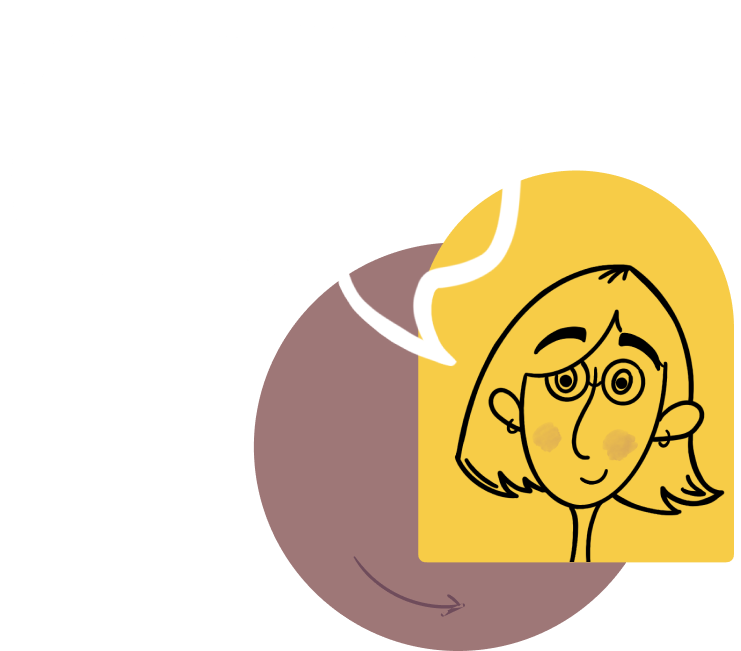
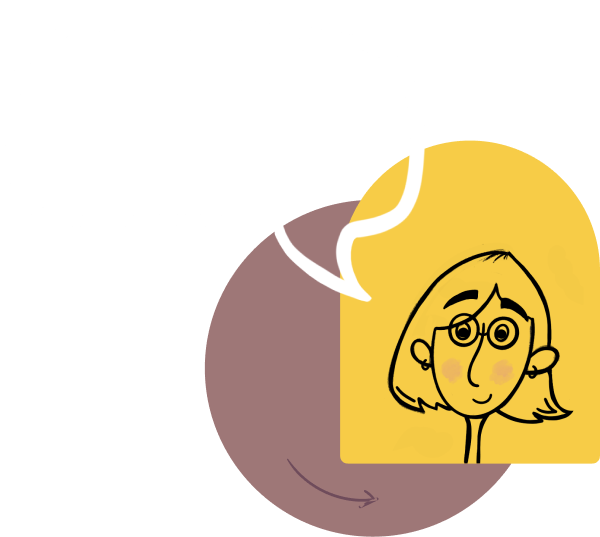
added portfolio items

diff --git a/src/components/Resume/Resume.js b/src/components/Resume/Resume.js
@@ -1,0 +1,44 @@
+import React from 'react';
+import { Item } from '../ Item/Item';
+
+const Resume = () => {
+  return (
+    <div>
+      <Item experience="Courier Health"
+            date="Oct 2020 - May 2021"
+            contents={[
+              "Devliered Courier Health’s MVP Patient Therapy Engagemnt System written in React, TypeScript and AWS Amplify.",
+              "Implemented pixel-perfect user interfaces from bare bone wireframes for Courier Health’s core features including the Case Manager dashboard, patients’ profile page, and the resource library manager.",
+              "Strategically involved in the design and implementation process of the product by consulting on best UX practices during initial design phases."
+            ]}
+            />
+      <Item experience="Sunshine Permaculture"
+            date="Sept 2020 - Dec 2021"
+            contents={[
+              "Assisted in establishing an organic farm in Chiang Mai, Thailand, with the aim of creating a resilient and sustainable food system for local communities."
+            ]}
+            />
+      <Item experience="ActionIQ"
+            date="Oct 2018 - Mar 2020"
+            contents={[
+              "Led a data visualization project to create complex React components that hooked into live data streams from ideation to implementation and delivery.", 
+              "Regularly assumed the role of Agile Scrum Master and worked closely with the Product and UX team to identify, prioritize, and groom upcoming features and JIRA tickets.", 
+              "Implemented third party API integrations and authentication libraries in Scala for clients to target advertising campaigns to large groups of users via channels such as Twitter and Snapchat.", 
+              "Improved runtime of Luigi tasks by improving Redshift queries, which resulted in decreasing the execution time of the process from approximately two hours to fifteen minutes.", 
+              "Enhanced the complex ActionIQ interface by adding the ability for users to easily edit previously constructed marketing campaigns.", 
+              "Collaborated across multiple teams to create a new Full Stack feature which provided clients insights into the enormous amounts of data being processed in the ActionIQ platform on a daily basis. "
+            ]}
+            />
+      <Item experience="Blackrock"
+            date="Aug 2017 - Oct 2018"
+            contents={[
+              "Developed a next generation portfolio modeling and risk analytics tool written in AngularJS that allowed users to have a more holistic insight into their portfolio holdings.",
+              "Implemented a project which enabled super-users to create global analytic templates that become accessible in all client environments which greatly enhanced the client’s overall experience on the platform.", 
+              "Enhanced BlackRock’s Query Language, in ANTLR and Java which reduced the redundancy in the database and increased ease of compliance rule integration and creation in the platform."
+              ]} 
+            />
+    </div>
+  );
+}
+
+export { Resume };

diff --git a/src/components/ Item/Item.js b/src/components/ Item/Item.js
@@ -1,0 +1,61 @@
+import React, { useState } from 'react';
+import './Item.css';
+
+const DISPLAY_LIM = 3;
+
+const Contents = ({ items }) => {
+  const [toggle, setToggle] = useState(false);
+
+  return (
+    <div>
+      { !toggle
+          ? items.map((content, idx) => {
+            if (idx > DISPLAY_LIM - 1) return;
+            return (
+              <div key={idx} style={{ marginBottom : "10px" }}>
+                {content}
+              </div>
+            )})
+          : items.map((content, idx) => 
+              <div key={idx} style={{ marginBottom : "10px" }}>
+                {content}
+              </div>
+            )
+      }
+      {
+        items.length <= DISPLAY_LIM
+          ? <></>
+          : (!toggle) 
+            ? <div onClick={() => setToggle(!toggle)} className="see_more">See More</div>
+            : <div onClick={() => setToggle(!toggle)} className="see_more">See Less</div>
+      }
+      
+    </div>
+  )
+}
+
+const Item = ({ experience, date, contents }) => {
+  return (
+    <div className='item_container'>
+      <div className='outer_circle'></div>
+      <div>
+        <div className='experience'>
+          { experience } 
+        </div>
+        <div className='date'>
+          { date } 
+        </div>
+      </div>
+      <div className='content'> 
+          {/* { contents.map((content, idx) => 
+              <div key={idx} style={{ marginBottom : "10px" }}>
+                {content}
+              </div> 
+          )}  */}
+          <Contents items={contents}/>
+      </div>
+    </div>
+  );
+}
+
+export { Item };

diff --git a/src/App.js b/src/App.js
@@ -8,11 +8,12 @@ import { Header, Title, Normal } from './components/Text';
 import { TypeWriter } from './components/Typewriter/Typewriter';
 import { Spacer } from './components/Spacer/Spacer';
 import { Button } from './components/Button/Button';
+import { Resume } from './components/Resume/Resume';
 
 function App() {
   return (
     <div className='App'>
-      <div className='container_1'>
+      <div className='section_1'>
         <div className='intro'>
           <TypeWriter text="Hi there, I'm Adisa"/>
           <img src={img} alt='intro_img' className='intro_img'/>
@@ -22,8 +23,7 @@ function App() {
           <Title text="Full-Stack Engineer"/>
           <div className="paragraph">
             <Normal text="Thanks for stopping by. Here's some quick info about me:  I'm a Full-Stack Engineer with experiences working in React + Redux, Typescript, and Javascript, among other technologies. 
-                          Some of my favorite things in life include my Boston Terrier, hiking, and making pizza. If you would like to know more, browse around and reach out!"
-            />
+                          Feel free browse around and reach out!"/>
           </div>
           <Spacer spacing="30px"/>
           <Icon link="https://github.com/adisa-di">
@@ -38,6 +38,10 @@ function App() {
           <Spacer spacing="30px"/>
           <Button text="SEE MY WORK"/>
         </div>
+      </div>
+      <div className='section_2'>
+        {/* <div>Hello</div> */}
+        <Resume/>
       </div>
     </div>
   );

diff --git a/src/components/Typewriter/Typewriter.css b/src/components/Typewriter/Typewriter.css
@@ -2,7 +2,7 @@
   display: flex;
   position: absolute;
   width: 45%;
-  left: 14%;
+  left: 11%;
   top: 22%;
 }
 
@@ -43,60 +43,60 @@
 
 @media only screen and (min-width: 1700px) {
   .typewriter {
-    font-size: 1.9rem;
+    font-size: 1.8rem;
   }
 }
 
 @media only screen and (min-width: 1550px) and (max-width: 1699px) {
   .typewriter {
-    font-size: 1.5rem;
+    font-size: 1.4rem;
   }
 }
 
 @media only screen and (min-width: 1330px) and (max-width: 1549px) {
   .typewriter {
-    font-size: 1.3rem;
+    font-size: 1.2rem;
   }
 }
 
 @media only screen and (min-width: 1300px) and (max-width: 1329px) {
   .typewriter {
-    font-size: 1.2rem;
+    font-size: 1.1rem;
   }
 }
 
 @media only screen and (min-width: 1160px) and (max-width: 1299px) {
   .typewriter {
-    font-size: 1.15rem;
+    font-size: 1.1rem;
   }
 }
 
 @media only screen and (min-width: 1020px) and (max-width: 1159px) {
   .typewriter {
-    font-size: 1rem;
+    font-size: 0.9rem;
   }
 }
 
 @media only screen and (min-width: 780px) and (max-width: 1019px) {
   .typewriter {
-    font-size: 1rem;
+    font-size: 0.9rem;
   }
 }
 
 @media only screen and (min-width: 620px) and (max-width: 779px) {
   .typewriter {
-    font-size: 1.3rem;
+    font-size: 1.2rem;
   }
 }
 
 @media only screen and (min-width: 530px) and (max-width: 619px) {
   .typewriter {
-    font-size: 1.2rem;
+    font-size: 1.1rem;
   }
 }
 
 @media only screen and (max-width: 529px) {
   .typewriter {
-    font-size: 0.8rem;
+    font-size: 0.7rem;
   }
 }

diff --git a/src/App.css b/src/App.css
@@ -1,11 +1,13 @@
-.container_1 {
-  height: 100vh;
+.section_1 {
+  /* height: 120vh; */
   background-color: #6f4c5b;
 
   /* grid display */
   display: grid;
   align-items: center;
   grid-template-columns: repeat(auto-fit, minmax(400px, 1fr));
+  padding-top: 7vh;
+  padding-bottom: 7vh;
 }
 
 .intro {
@@ -15,9 +17,20 @@
 .intro_img {
   padding-left: 30px;
   padding-right: 30px;
-  width: 88%; /* scale with the container */
+  width: 80%; /* scale with the container */
 }
 
 .paragraph {
   margin-right: 70px;
+}
+
+.section_2 {
+  display: grid;
+  padding-top: 7vh;
+  padding-bottom: 7vh;
+  background-color: #f0e9e9;
+  /* grid-template-columns: repeat(2, 1fr); */
+  display: grid;
+  align-items: center;
+  grid-template-columns: repeat(auto-fit, minmax(400px, 1fr));
 }

diff --git a/src/components/ Item/Item.css b/src/components/ Item/Item.css
@@ -1,0 +1,48 @@
+.item_container {
+  display: grid;
+  grid-template-columns: 0.3fr 1fr 4fr;
+  column-gap: 20px;
+  font-family: "Epilogue", sans-serif;
+  margin-bottom: 30px;
+  margin-left: 20px;
+}
+
+.outer_circle {
+  width: 10px;
+  height: 10px;
+  padding: 5px;
+  border-radius: 50%;
+  border: 5px solid #6f4c5b;
+  background-color: #6f4c5b;
+  background-clip: content-box;
+}
+
+.experience {
+  font-size: 20px;
+  color: #6f4c5b;
+  font-weight: 600;
+}
+
+.date {
+  font-size: 15px;
+  color: #6f4c5b;
+  font-weight: 300;
+}
+
+.content {
+  font-size: 18px;
+  color: #6f4c5b;
+  font-weight: 300;
+  margin-bottom: 10px;
+}
+
+.see_more {
+  font-size: 16px;
+  margin-top: 10px;
+  color: #ad97a0;
+}
+
+.see_more:hover {
+  font-weight: 500;
+  cursor: pointer;
+}

diff --git a/src/components/Icon/Icon.css b/src/components/Icon/Icon.css
@@ -1,5 +1,5 @@
 .icon_container {
-  margin-right: 22px;
+  margin-right: 25px;
   color: #f0e9e9;
   transition: all 0.2s ease-in-out;
 }
